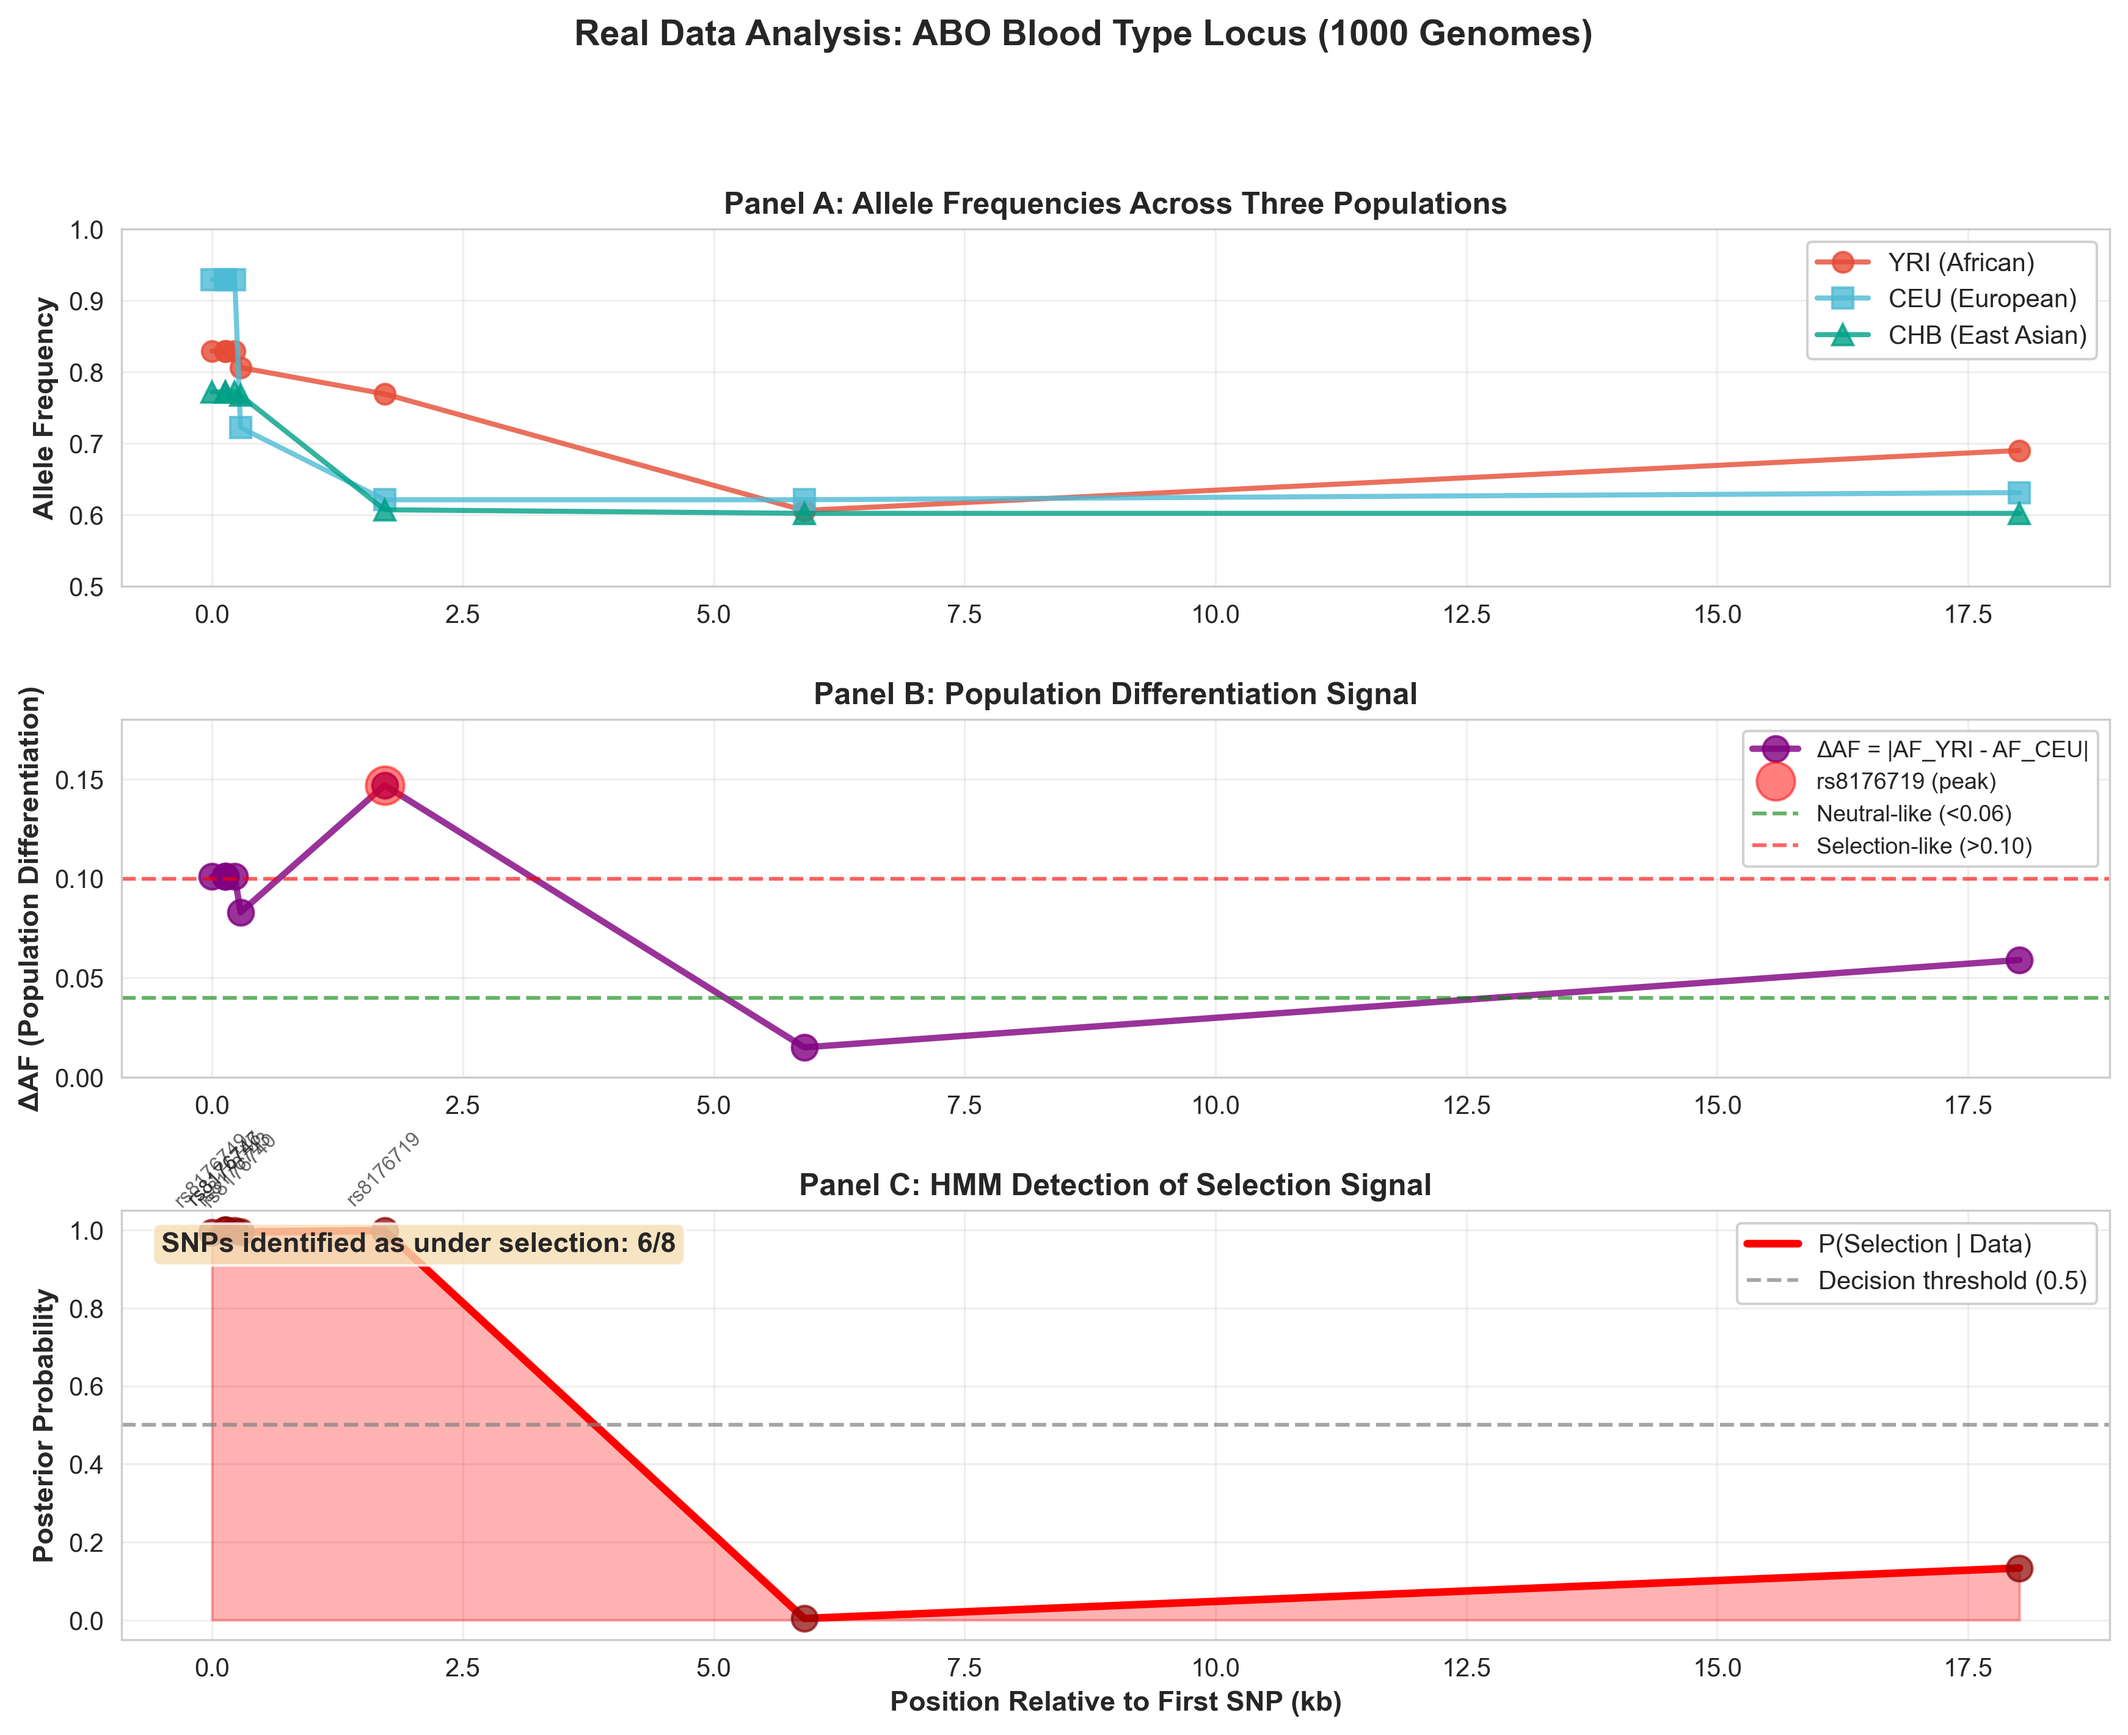
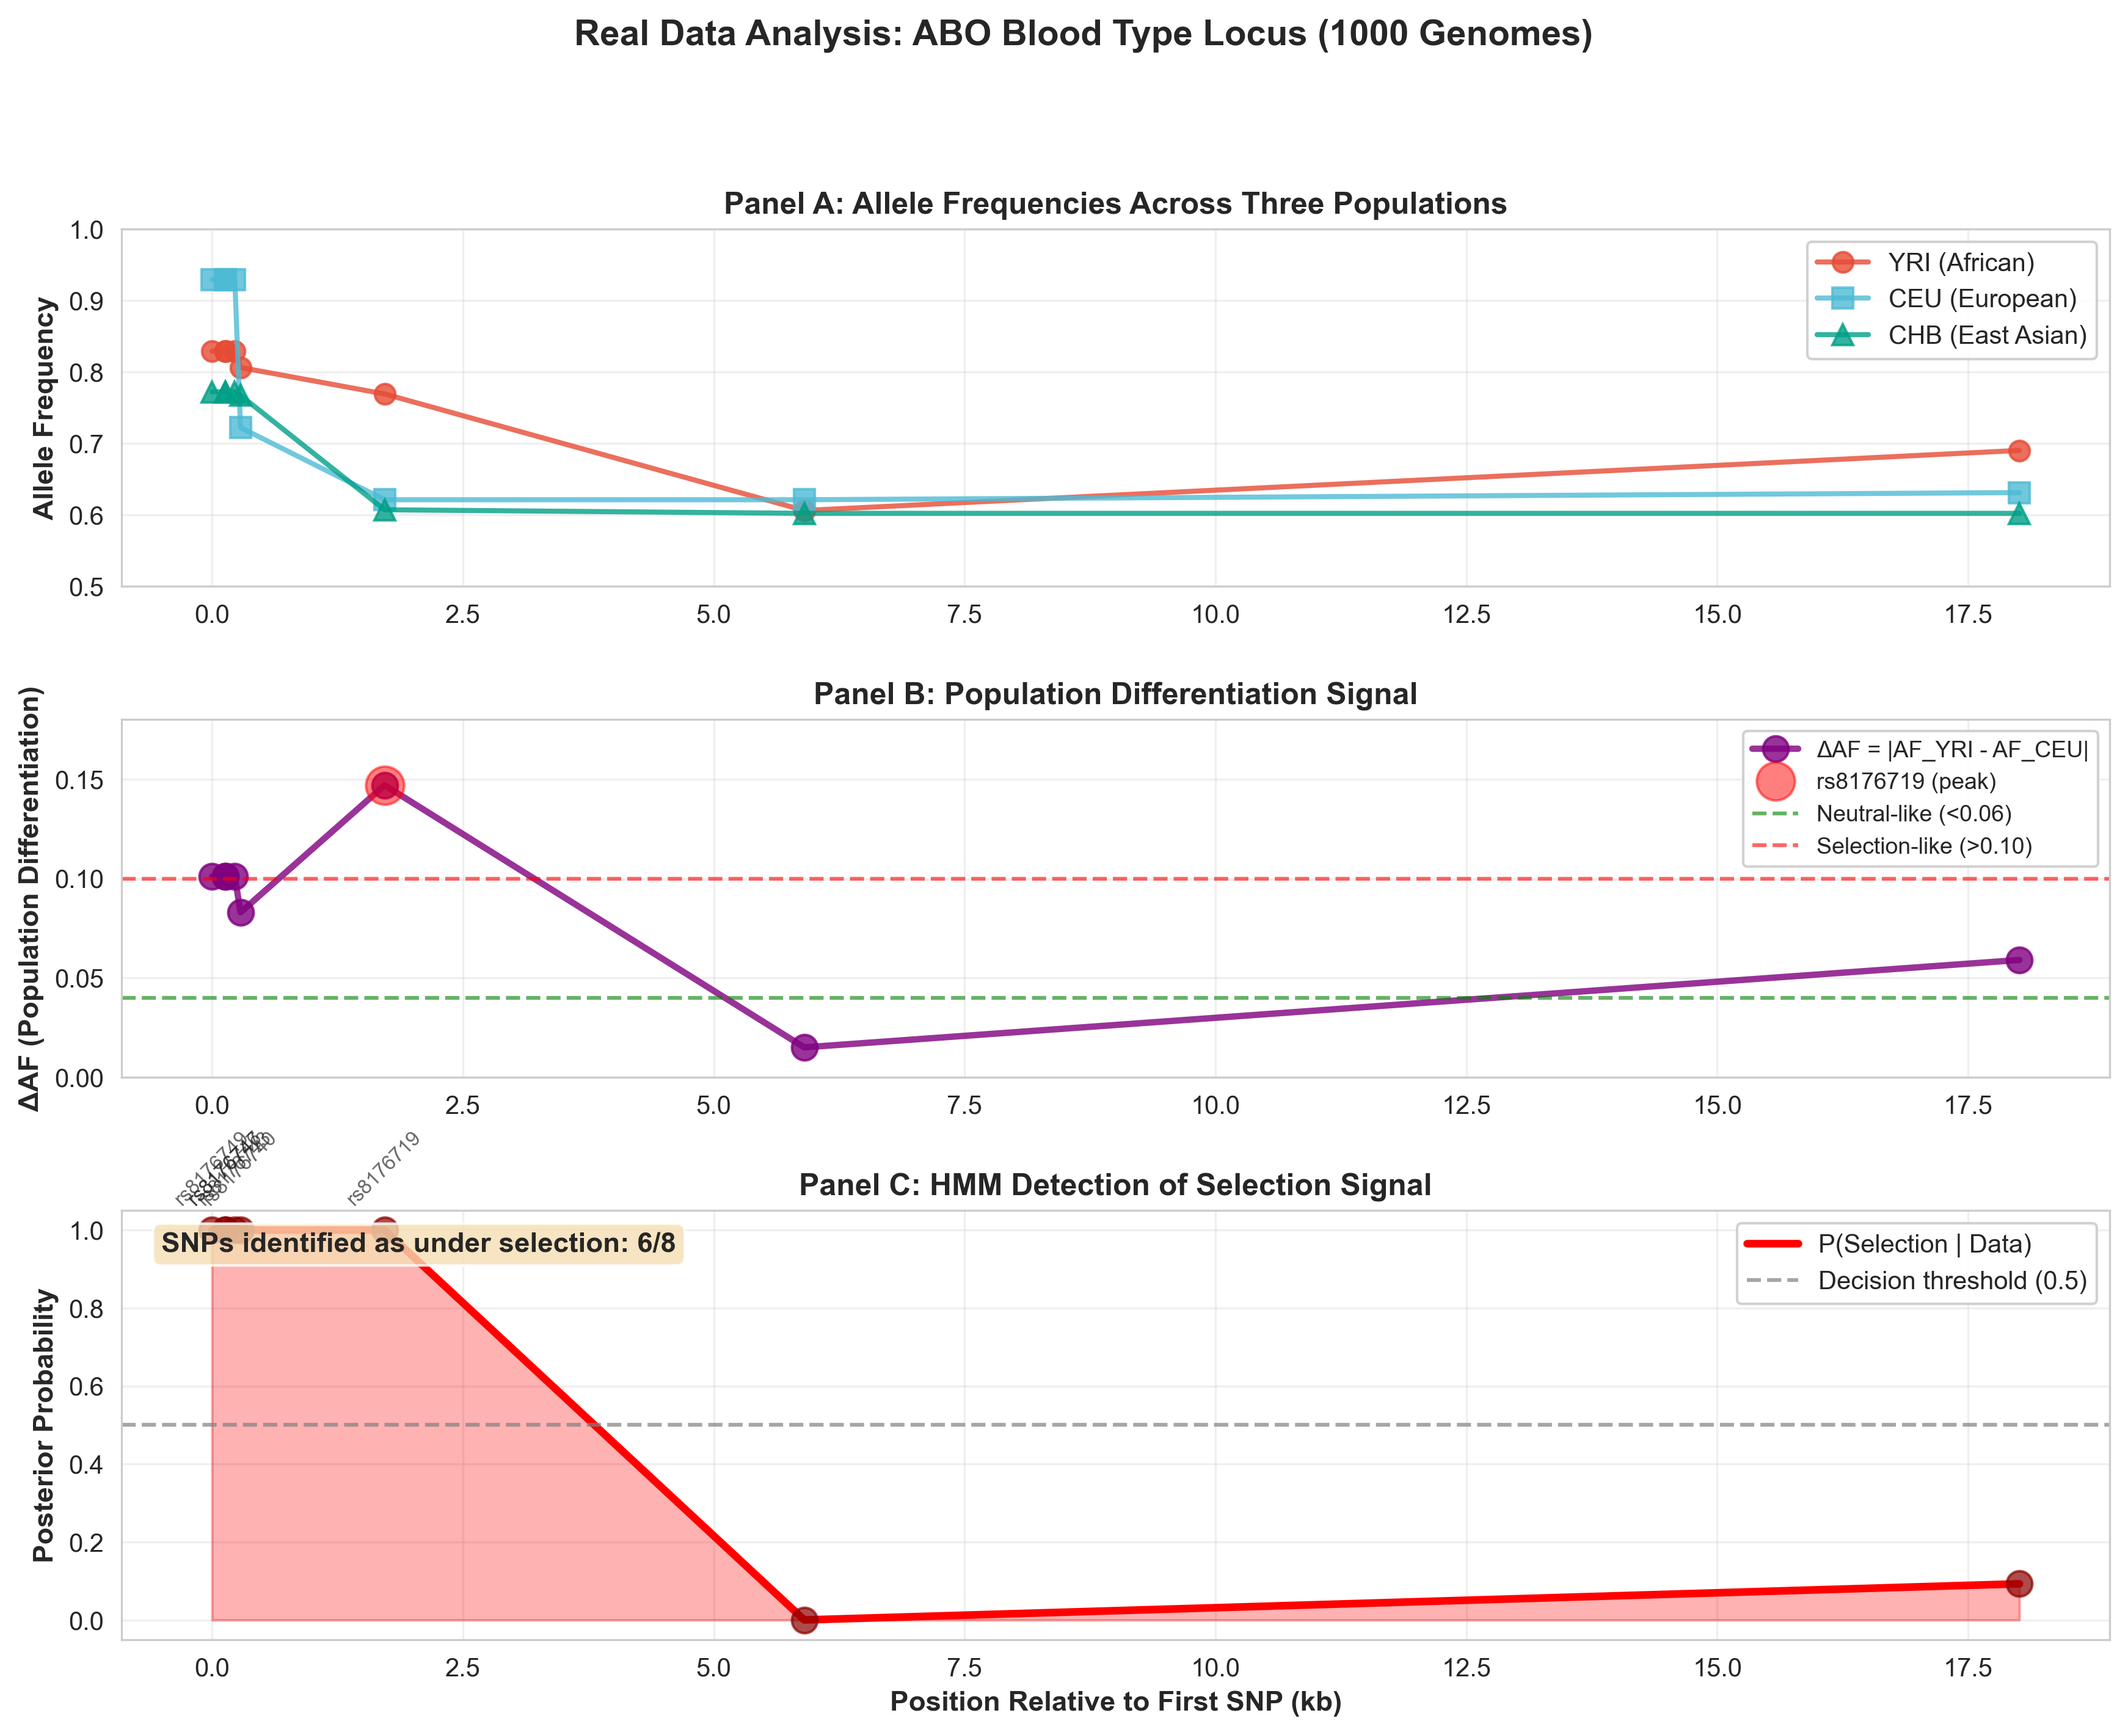
run Baum-Welch before decoding in real-data analyses

Changed region(s): [[0.496, 0.8983, 0.961, 0.9293], [0.093, 0.6505, 0.124, 0.7124], [0.372, 0.9293, 0.403, 0.9602]]

diff --git a/src/visualization_expanded.py b/src/visualization_expanded.py
@@ -316,6 +316,9 @@ def plot_real_abo_analysis_expanded(save_path=None):
     hmm = SelectionHMM(emission_params, transition_params)
     
     # ===== STEP 3: RUN HMM =====
+    print("2b. Running Baum–Welch (EM) to refine parameters...")
+    hmm.fit(observations, positions, n_iter=10, verbose=False)
+
     print("\n3. Running Forward-Backward algorithm...")
     print("   (This may take a moment...)")
     
@@ -420,6 +423,9 @@ def plot_preliminary_results_expanded(save_path=None):
     hmm = SelectionHMM(emission_params, transition_params)
     
     # ===== RUN HMM =====
+    print("2b. Running Baum–Welch (EM) to refine parameters...")
+    hmm.fit(observations, positions, n_iter=10, verbose=False)
+
     print("3. Running Forward-Backward algorithm...")
     print("   (This may take a moment...)")
     posteriors = hmm.posterior_probabilities(observations, positions)

diff --git a/tests/test_abo_data.py b/tests/test_abo_data.py
@@ -102,6 +102,9 @@ def analyze_real_abo_data():
     }
     
     hmm = SelectionHMM(emission_params, transition_params)
+
+    # Optionally refine parameters on the 8-SNP dataset before decoding
+    hmm.fit(observations, positions, n_iter=10, verbose=False)
     
     # Run HMM
     posteriors = hmm.posterior_probabilities(observations, positions)
